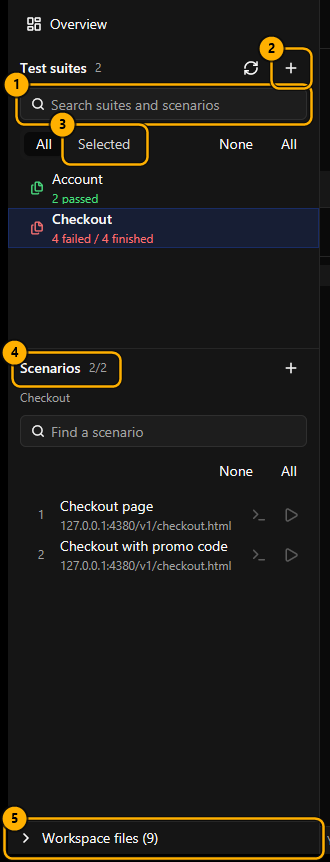
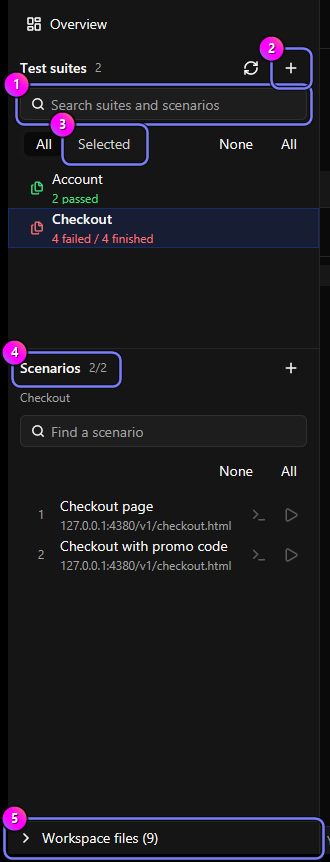
feat: update document (#2)
* feat: update document

* bump version

diff --git a/website/src/styles/global.css b/website/src/styles/global.css
@@ -147,6 +147,14 @@ html:not(.js) .requires-js {
   line-height: 1.7;
 }
 
+/* On tablets and phones the column is already narrow; drop the measure cap so
+   text and screenshots use the full container width. */
+@media (max-width: 768px) {
+  .prose {
+    max-width: none;
+  }
+}
+
 .prose > * + * {
   margin-top: var(--space-lg);
 }

diff --git a/website/src/config/site.ts b/website/src/config/site.ts
@@ -21,7 +21,7 @@ export const SITE = {
 export const DOWNLOAD_PAGE_PATH = '/download/';
 
 export const NAV_LINKS = [
-  // { href: '/docs/', label: 'Docs' },
+  { href: '/docs/', label: 'Docs' },
   // { href: '/blog/', label: 'Blog' },
   { href: '/download/', label: 'Download' },
 ] as const;

diff --git a/website/README.md b/website/README.md
@@ -75,7 +75,7 @@ The getting-started doc, the landing page quickstart, and the download page's bu
 
 Screenshots in the desktop guide live in [src/assets/docs/desktop](src/assets/docs/desktop) and are referenced from Markdown with relative paths, so Astro converts them to WebP with fixed dimensions. Readers can click any image to open it full screen ([ImageZoom](src/components/ImageZoom.astro)). They are dark-theme window captures (1440x900 before cropping) of a release build (`cargo build --release --features gui --bin regressify-desktop`) opened on a throwaway fictional workspace ("northwind-qa", served from `127.0.0.1`).
 
-Annotations are baked into the PNGs: an amber ring around each control the text mentions and a numbered badge matching the step's circled number (①, ②, …). Amber keeps them distinct from the app's magenta diff pixels and red failure states. Ring positions came from each control's Windows UI Automation bounding box, looked up by accessible name, so they line up with the real controls. When you change a step's numbering, recapture or re-annotate the image so the badges still match.
+Annotations are baked into the PNGs: a brand-violet (`#7a7efa`) ring around each control the text mentions and a numbered badge, filled with the brand gradient, matching the step's circled number (①, ②, …). Rings stay violet rather than gradient because the gradient's magenta would blend into the app's magenta diff pixels. Ring positions came from each control's Windows UI Automation bounding box, looked up by accessible name, so they line up with the real controls. When you change a step's numbering, recapture or re-annotate the image so the badges still match.
 
 To recapture:
 

diff --git a/website/src/content/docs/desktop-app.md b/website/src/content/docs/desktop-app.md
@@ -488,6 +488,21 @@ In the Source editor:
 
 ## Troubleshooting
 
+**Windows or macOS says it can't verify the app.** Regressify isn't code-signed yet, so the operating system can't
+confirm who published it. First check that the file's SHA-256 matches the one on the [download page](/download/)
+(**Archives & checksums**). The install scripts check this for you. Then:
+
+- **Windows** ("Windows protected your PC"): click **More info**, then **Run anyway**. The PowerShell install command
+  usually doesn't trigger this warning.
+- **macOS** ("Apple could not verify … is free of malware"): click **Done**, open **System Settings** > **Privacy &
+  Security**, scroll to **Security**, click **Open Anyway** next to the blocked file, and confirm with your password.
+  Do this once for `regressify` and once for `regressify-desktop`. Or clear the download flag in Terminal:
+  `xattr -d com.apple.quarantine regressify regressify-desktop`. The `curl` install command usually doesn't trigger
+  this warning.
+
+On a company-managed computer, **Run anyway** or **Open Anyway** may be missing. Ask your IT team to allow Regressify
+instead of turning off SmartScreen or Gatekeeper.
+
 **Run Test is disabled.** Select a suite and run **Run Reference** first.
 
 **`regressify` isn't found.** Open a new terminal, or restart VS Code or Windows Terminal.
